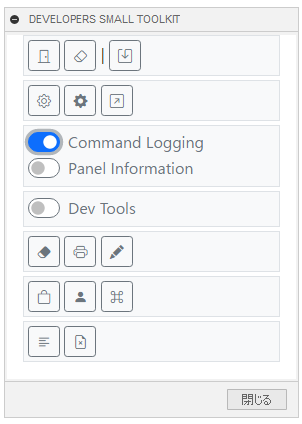
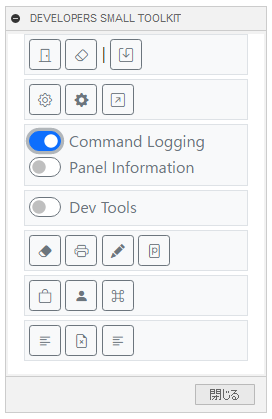
add Dump Entity Props Command

diff --git a/Developers_Small_ToolKit/index.html b/Developers_Small_ToolKit/index.html
@@ -200,6 +200,18 @@
             >
               <i class="bi bi-pencil-fill"></i>
             </button>
+
+            <!-- Dump Entity Props -->
+            <button
+              class="btn btn-outline-secondary btn-sm customBtn"
+              type="button"
+              data-bs-toggle="tooltip"
+              data-bs-placement="top"
+              title="Dump Entity Props"
+              onclick="dumpEntityProps()"
+            >
+              <i class="bi bi-file-ppt"></i>
+            </button>
           </div>
         </div>
 
@@ -268,6 +280,18 @@
             >
               <i class="bi bi-file-earmark-x"></i>
             </button>
+
+            <!-- Dump User UserParameter Attributes -->
+            <button
+              class="btn btn-outline-secondary btn-sm customBtn"
+              type="button"
+              data-bs-toggle="tooltip"
+              data-bs-placement="top"
+              title="Dump UserUserParameter Attributes"
+              onclick="dumpUserPrmAttrs()"
+            >
+              <i class="bi bi-text-left"></i>
+            </button>
           </div>
         </div>
       </div>
@@ -296,6 +320,14 @@
         value: true,
       };
       adsk.fusionSendData("removeDocAttrs", JSON.stringify(args));
+    }
+
+    // Dump User UserParameter Attributes
+    function dumpUserPrmAttrs() {
+      let args = {
+        value: true,
+      };
+      adsk.fusionSendData("dumpUserPrmAttrs", JSON.stringify(args));
     }
 
     // Export TxtCmd List
@@ -412,6 +444,14 @@
         value: true,
       };
       adsk.fusionSendData("dumpEntityPaths", JSON.stringify(args));
+    }
+
+    // Dump Entity Props
+    function dumpEntityProps() {
+      let args = {
+        value: true,
+      };
+      adsk.fusionSendData("dumpEntityProps", JSON.stringify(args));
     }
 
     // Open Active Command Resource Folder

diff --git a/Developers_Small_ToolKit/Developers_Small_ToolKit.py b/Developers_Small_ToolKit/Developers_Small_ToolKit.py
@@ -198,6 +198,11 @@ class MyHTMLEventHandler(adsk.core.HTMLEventHandler):
                 if data['value']:
                     dumpEntityPaths()
 
+            elif htmlArgs.action == 'dumpEntityProps':
+                data = json.loads(htmlArgs.data)
+                if data['value']:
+                    dumpEntityProps()
+
             elif htmlArgs.action == 'resourceFolder':
                 data = json.loads(htmlArgs.data)
                 if data['value']:
@@ -248,8 +253,37 @@ class MyHTMLEventHandler(adsk.core.HTMLEventHandler):
                 if data['value']:
                     removeDocAttrs()
 
+            elif htmlArgs.action == 'dumpUserPrmAttrs':
+                data = json.loads(htmlArgs.data)
+                if data['value']:
+                    dumpUserPrmAttrs()
+
         except:
             _ui.messageBox('Failed:\n{}'.format(traceback.format_exc()))
+
+
+def dumpEntityProps():
+    app: adsk.core.Application = adsk.core.Application.get()
+    sels: adsk.core.Selections = app.userInterface.activeSelections
+
+    if sels.count < 1:
+        app.log('non select')
+        return
+
+    res = app.executeTextCommand(u'Selections.List')
+    paths = res.split()
+    for path in paths:
+        try:
+            ids = path.split(':')
+            app.log(f'PEntity.Properties __ Entity Id:{ids[-1]}')
+            app.log(
+                app.executeTextCommand(
+                    u'PEntity.Properties {}'.format(ids[-1])
+                )
+            )
+        except:
+            pass
+
 
 def dumpDocAttrs():
     global _app
@@ -294,6 +328,27 @@ def removeDocAttrs():
         for attr in attrs.itemsByGroup(gpName):
             attr.deleteMe()
     _app.log(f'after count:{attrs.count}')
+
+
+def dumpUserPrmAttrs() -> None:
+    app: adsk.core.Application = adsk.core.Application.get()
+    prms: adsk.fusion.UserParameters = app.activeDocument.design.userParameters
+
+    _app.log('TextCommandWindow.Clear')
+    _app.log('-- Dump User UserParameter Attributes --')
+    attr: adsk.core.Attribute
+    prm: adsk.fusion.UserParameter
+    for prm in prms:
+        app.log(f'**PrmName:{prm.name}**')
+        for groupName in prm.attributes.groupNames:
+            group = prm.attributes.itemsByGroup(groupName)
+            app.log(f'GroupName:{groupName}')
+            for attr in group:
+                app.log(f'  Name:{attr.name}  ValueSize:{len(attr.value.encode())}')
+
+                dict = json.loads(attr.value)
+                for key in dict.keys():
+                    app.log(f'    {key}:{dict[key]}')
 
 
 def exportTxtCmdLst():
@@ -462,6 +517,20 @@ def windowClear():
 
 def closeAllDocs():
     global _app, _ui
+
+    def closeDocs(docs):
+        for doc in docs[::-1]:
+            try:
+                doc.close(False)
+            except:
+                pass
+
+    # *********
+
+    closeDocs(
+        [doc for doc in _app.documents if not doc.isModified]
+    )
+
     docs = [doc for doc in _app.documents]
     msg = [
         f'The number of open documents is {len(docs)}.',
@@ -476,13 +545,7 @@ def closeAllDocs():
     ) == adsk.core.DialogResults.DialogOK:
         return
 
-    # [doc.close(False) for doc in docs[::-1]]
-    for doc in docs[::-1]:
-        try:
-            doc.close(False)
-        except:
-            pass
-
+    closeDocs(docs)
 
 
 def CreatePalette():

diff --git a/Developers_Small_ToolKit/README.md b/Developers_Small_ToolKit/README.md
@@ -27,7 +27,7 @@
 
 ![Alt text](./resources/dialog.png)
 
-- Close all docs:　開かれているドキュメントを全て**保存せず**閉じます。
+- Close all docs: 開かれているドキュメントで変更の無いものは先に閉じ、残り全て**保存せず**閉じます。
 - Remove Custom Graphics: 全てのカスタムグラフィックスを削除します。
 - Export TextCommands List: TextCommands(txt)のコマンドリストをファイルに保存します。
 
@@ -44,6 +44,7 @@
 - Window Clear: 出力先をクリアします。
 - Dump CommandDialog Info: 表示されているコマンドダイアログ情報を出力します。
 - Dump Entity Paths: 選択されているエンティティ ID を出力します。(テキストコマンド用)
+- Dump Entity Props: 選択されているエンティティのプロパティを出力します。(テキストコマンド用)
 
 - Open Cache Folder: ローカルキャッシュフォルダーを開きます。
 - Open User Directory: ユーザーディレクトリーを開きます。
@@ -60,7 +61,7 @@
 
 以下の環境で確認しています。
 
-- Fusion360 Ver2.0.12670
+- Fusion360 Ver2.0.13881
 - Windows10 64bit Pro , Home
 
 ## ライセンス :
